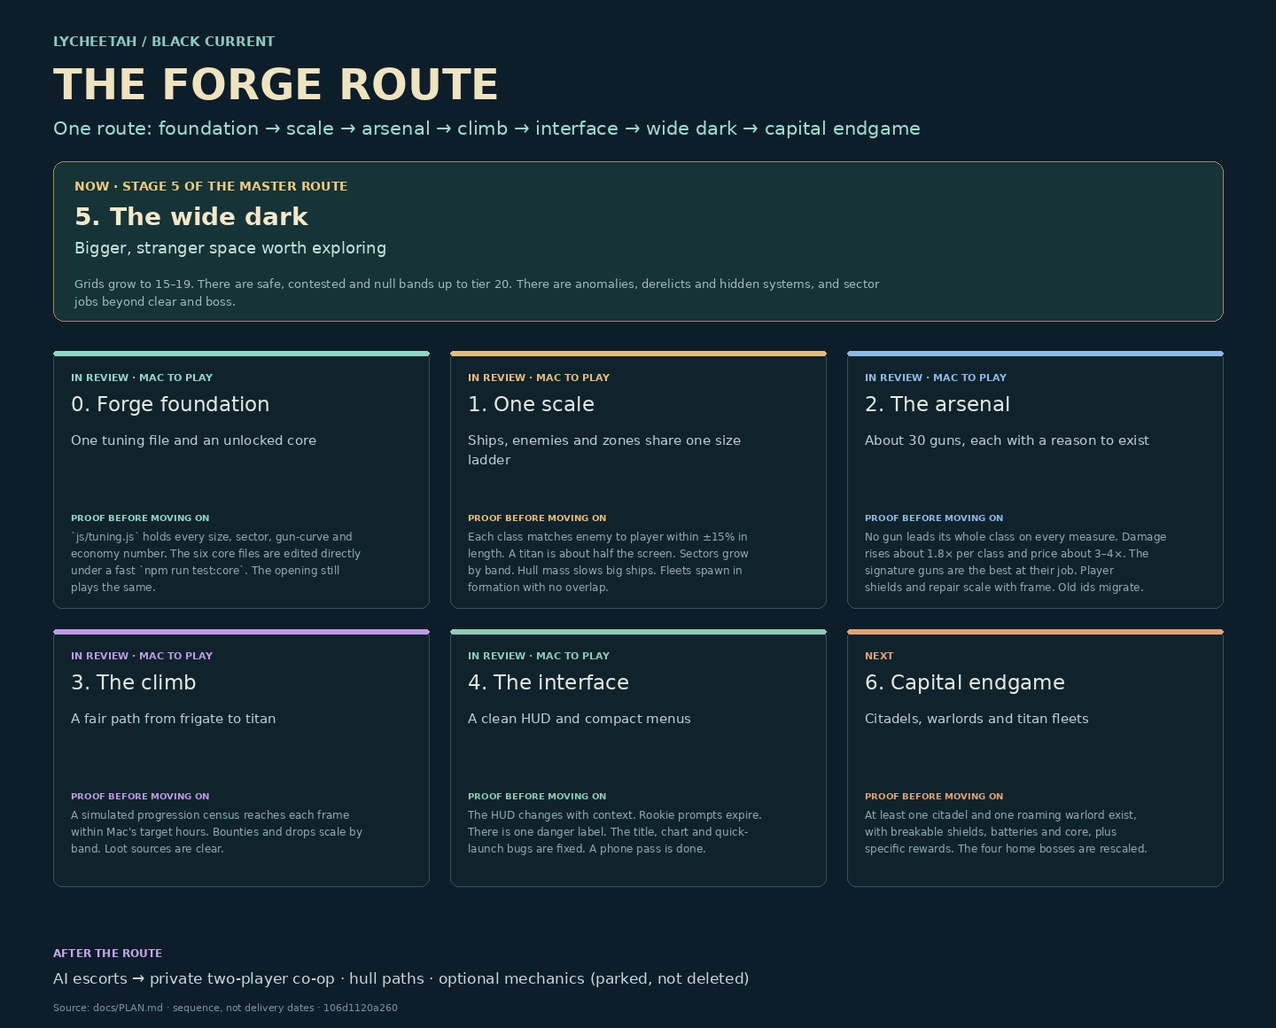
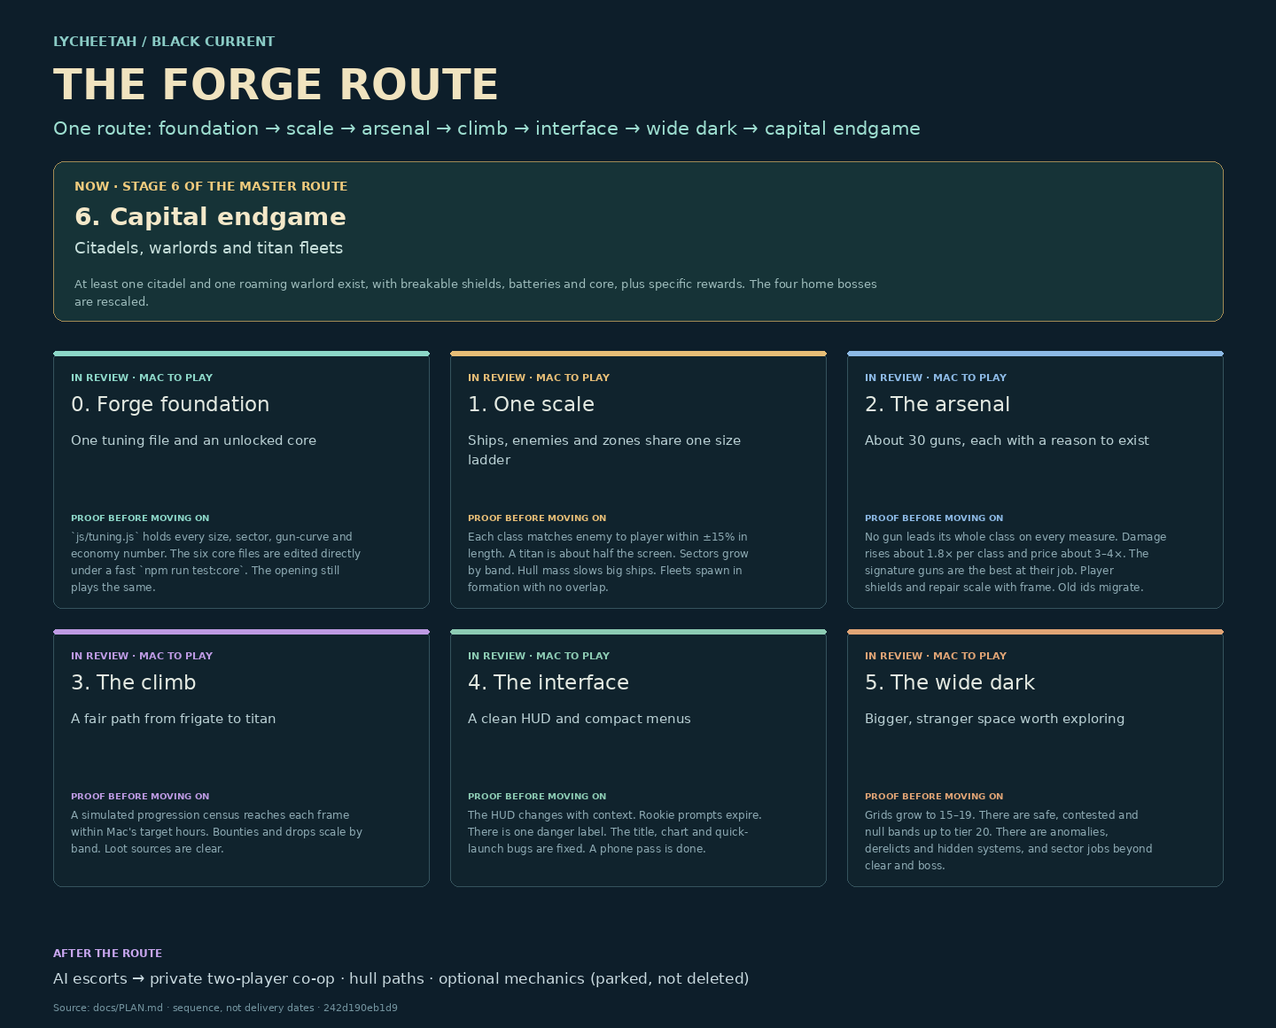
Stage 5: the wide dark, wider space with places worth the trip
Grids (tuning.MAP): home grows from 13x13 to 19x19, and systems from base
size +3 to base size +6, so 15-19 sectors wide. Inner coordinates and
seeds are unchanged; the outer rings are new space. Continue and portal
restores use the new limits.

Danger bands (tuning.BANDS): safe 1-3, contested 4-10, null 11-20. Far
regions add +1/+3/+6 to their sectors. Clamps are lifted to 20 in
combat-scaling, the threat rows extend to tier 20 (x1.18 HP/shield per
tier; tier 20 is 654k HP and 9,300 metal), and sector rooms grow to
12,000 px. Null-band fleets keep the 12-actor budget: one flagship of the
band, tier-18 escorts, and screens capped at tier 7, so they stay mixed
(titan, escorts, capital screens) instead of all titans.

New js/wide-dark.js:
- derelicts: seeded wrecks in contested and null space, guarded until
  cleared. Holding position for 3 s salvages a promised band-class roster
  gun (it skips the loot re-roll) plus metal;
- anomalies: rare in deep contested space, common in the null band; they
  give a relic fitting (otherwise boss-only) and chart a far system;
- GRAVEYARD: a sixth rule, assigned by hash after the four rolled rules,
  which are now pinned. No existing rule moves, even on regeneration.
  Graveyards are derelict-rich and have 40% fewer hunters.
Faction-kit block art draws the set pieces. New "Salvage a derelict" and
"Chart an anomaly" contracts.

New witness-wide-dark passes 10/10. combat-scaling, galaxy, one-scale and
[…]

diff --git a/js/wide-dark.js b/js/wide-dark.js
@@ -1,0 +1,106 @@
+/* THE WIDE DARK (master route Stage 5): places worth the trip.
+ * - DERELICTS: seeded wrecks in contested and null space (and most of a GRAVEYARD system). Clear the
+ *   guard, hold position beside the hulk and you salvage a roster gun of the sector's band class.
+ * - ANOMALIES: rare in deep contested space, common in the null band. Holding inside one yields a
+ *   RELIC fitting (otherwise only bosses drop relics) and charts a far system you have not visited.
+ * - GRAVEYARD: a sixth system rule, assigned by hash so existing galaxies keep every rolled rule.
+ * Sites are pure functions of system + coordinates; only "claimed" is saved. Art: faction-kit blocks. */
+(() => {
+  'use strict';
+  const TAU = Math.PI * 2, HOLD = 180;   // frames of holding position to salvage (3 s)
+  const ART = {
+    derelict: ['art/keyed/alien_blocks/chitin_carapace-v1.png', 'art/keyed/alien_blocks/rib_cage-v1.png', 'art/keyed/precursor_blocks/obsidian_keel-v1.png', 'art/keyed/armor/citadel_slab-v1.png'],
+    anomaly: ['art/keyed/precursor_blocks/solar_citadel-v1.png', 'art/keyed/alien_blocks/pulsing_heart-v1.png']
+  };
+  const images = new Map();
+  for (const path of [...ART.derelict, ...ART.anomaly]) { const img = new Image(); img.onload = () => images.set(path, img); img.src = window.__ART?.[path] || path; }
+  const hash = s => { let h = 2166136261; for (let i = 0; i < s.length; i++) h = Math.imul(h ^ s.charCodeAt(i), 16777619); return h >>> 0; };
+  const rng = seed => () => ((seed = Math.imul(seed ^ seed >>> 15, 2246822519) + 0x9e3779b9 >>> 0) / 4294967296);
+  let ready = false, hold = 0, holdKey = null;
+  const doc = () => { const d = saveState.doc; if (!d.wideDark || d.wideDark.v !== 1) d.wideDark = { v: 1, claimed: {}, derelicts: 0, anomalies: 0 }; return d.wideDark; };
+  // Graveyards are marked by hash after the seeded rules are rolled, so no existing rule moves.
+  let marked = null;
+  const candidate = sys => !!sys && !sys.home && !sys.hub && !sys.rule && (sys.hops || 0) >= 3 && hash('graveyard:' + sys.id) % 100 < 12;
+  function mark() { const D = window.galaxy?.data; if (!D || D === marked) return; for (const s of D.systems) if (candidate(s)) s.rule = 'graveyard'; marked = D; }
+  const isGraveyard = sys => { mark(); return sys?.rule === 'graveyard'; };
+  function site(ch) {
+    mark();
+    if (!ch || ch.isHaven || ch.isBossSector || ch.zoneLayer) return null;
+    const ring = Math.max(Math.abs(ch.gridX), Math.abs(ch.gridY)), d = ch.dangerLevel || 1;
+    if (!ch.sys && ring <= 3) return null;
+    const key = (ch.sysId || 'home') + ':' + ch.gridX + ',' + ch.gridY, r = rng(hash('site:' + key)), a = r(), b = r();
+    let kind = null;
+    if ((d >= 11 && a < 0.22) || (d >= 8 && a < 0.06)) kind = 'anomaly';
+    else if (d >= 4 && b < (isGraveyard(ch.sys) ? 0.65 : 0.2)) kind = 'derelict';
+    if (!kind) return null;
+    const R = ch.radius || 2600, ang = r() * TAU, dist = R * (0.35 + r() * 0.4), list = ART[kind];
+    return { kind, key, x: Math.cos(ang) * dist, y: Math.sin(ang) * dist, r: kind === 'anomaly' ? 260 : 220 + Math.min(10, d) * 18, art: list[Math.floor(r() * list.length)], spin: (r() - 0.5) * 0.00012, danger: d };
+  }
+  const current = () => site(worldMap.getCurrentChamber());
+  const claimed = s => !!doc().claimed[s.key];
+  function guarded(s) { return engine.enemies.some(e => e.hp > 0 && !e.training && Math.hypot(e.x - s.x, e.y - s.y) < 1800); }
+  function reward(s) {
+    const W = doc(); W.claimed[s.key] = Date.now();
+    if (s.kind === 'derelict') {
+      W.derelicts++;
+      const cls = combatScaling.gunClass({ tier: s.danger, archetype: 'stalker' });
+      const pool = Object.entries(modularShips.GEARS).filter(([, g]) => g.weapon && g.cls === cls && !g.retired && !g.salvageOnly);
+      const pick = pool[hash(s.key) % Math.max(1, pool.length)];
+      if (pick) progression.spawnSalvage(s.x, s.y, { promised: true, part: { type: 'cannon', radius: pick[1].radius, weapon: pick[1].weapon } });
+      hubs.metal += Math.round((tuning.ROWS[Math.min(20, s.danger)]?.bounty || 10) * 2);
+      if (window.contracts) contracts.bump('salvage');
+      garage.banner('DERELICT SALVAGED · ' + (pick ? WEAPON_TYPES[pick[1].weapon]?.title + ' recovered' : 'metal recovered'), 'good');
+    } else {
+      W.anomalies++;
+      progression.spawnSalvage(s.x, s.y, { part: loot.roll('relic') });
+      const v = galaxy.doc().visited, far = galaxy.data.systems.filter(o => !v.includes(o.id) && !o.home).sort((p, q) => (hash(s.key + p.id) % 997) - (hash(s.key + q.id) % 997))[0];
+      if (far) v.push(far.id);
+      if (window.contracts) contracts.bump('anomaly');
+      garage.banner('ANOMALY CHARTED · a relic surfaces' + (far ? ' · ' + far.name + ' revealed' : ''), 'good');
+    }
+    saveState.save();
+  }
+  function update() {
+    if (engine.paused || engine.player.dead) return;
+    const s = current(); if (!s || claimed(s)) { hold = 0; return; }
+    const P = engine.player, near = Math.hypot(P.x - s.x, P.y - s.y) < s.r + fleetFormation.radius(P) + 160;
+    if (holdKey !== s.key) { hold = 0; holdKey = s.key; }
+    hold = near && !guarded(s) ? hold + 1 : Math.max(0, hold - 2);
+    if (hold >= HOLD) { hold = 0; reward(s); }
+  }
+  function draw(ctx, camera) {
+    const s = current(); if (!s) return;
+    const img = images.get(s.art), t = performance.now(), done = claimed(s);
+    ctx.save(); ctx.translate(s.x - camera.x, s.y - camera.y);
+    if (s.kind === 'anomaly' && !done) { const g = ctx.createRadialGradient(0, 0, s.r * 0.2, 0, 0, s.r * 1.6); g.addColorStop(0, 'rgba(255,211,106,.35)'); g.addColorStop(1, 'rgba(188,19,254,0)'); ctx.fillStyle = g; ctx.beginPath(); ctx.arc(0, 0, s.r * 1.6, 0, TAU); ctx.fill(); }
+    ctx.rotate(t * s.spin); ctx.globalAlpha = done ? 0.35 : 1;
+    if (img) { const k = s.r * 2 / Math.max(img.naturalWidth, img.naturalHeight); ctx.drawImage(img, -img.naturalWidth * k / 2, -img.naturalHeight * k / 2, img.naturalWidth * k, img.naturalHeight * k); }
+    ctx.restore();
+    if (!done && hold > 0) { ctx.save(); ctx.translate(s.x - camera.x, s.y - camera.y); ctx.strokeStyle = s.kind === 'anomaly' ? '#ffd36a' : '#86ded0'; ctx.lineWidth = 10; ctx.beginPath(); ctx.arc(0, 0, s.r + 40, -Math.PI / 2, -Math.PI / 2 + TAU * hold / HOLD); ctx.stroke(); ctx.restore(); }
+  }
+  function label(ctx, camera) {
+    const s = current(); if (!s) return;
+    const P = engine.player, d = Math.round(Math.hypot(P.x - s.x, P.y - s.y)), done = claimed(s);
+    const text = (s.kind === 'anomaly' ? 'ANOMALY' : 'DERELICT') + (done ? ' · salvaged' : guarded(s) ? ' · guarded' : ' · hold position to salvage') + ' · ' + d;
+    ctx.save(); ctx.font = '600 ' + Math.round(14 / (engine.camera.zoom || 1)) + 'px system-ui'; ctx.textAlign = 'center';
+    ctx.fillStyle = s.kind === 'anomaly' ? '#ffd36a' : '#86ded0'; ctx.globalAlpha = done ? 0.5 : 0.9;
+    ctx.fillText(text, s.x - camera.x, s.y - camera.y - s.r - 30 / (engine.camera.zoom || 1)); ctx.restore();
+  }
+  function install() {
+    if (!window.sectorField?._installed || !window.fleetFormation?.ready || !window.combatScaling?.ready || !window.galaxy?.data) { setTimeout(install, 60); return; }
+    const membrane = worldMap.drawChamberMembrane.bind(worldMap);
+    worldMap.drawChamberMembrane = (ctx, camera) => { membrane(ctx, camera); try { draw(ctx, camera); } catch { } };
+    const parts = particleSystem.draw.bind(particleSystem);
+    particleSystem.draw = (ctx, camera) => { parts(ctx, camera); try { label(ctx, camera); } catch { } };
+    const tick = engine.update.bind(engine);
+    engine.update = (...a) => { const r = tick(...a); try { update(); } catch { } return r; };
+    mark();
+    // A graveyard is mostly wreckage: about 40% fewer ordinary hunters.
+    const load = engine.loadChamberEntities;
+    engine.loadChamberEntities = function (...a) { mark(); const r = load.apply(this, a); if (galaxy.rule() === 'graveyard') { const keep = this.enemies.filter(e => e.isBoss || e.name || e.training), rest = this.enemies.filter(e => !keep.includes(e)); this.enemies = [...keep, ...rest.slice(0, Math.ceil(rest.length * 0.6))]; } return r; };
+    galaxy.RULES.graveyard = { name: 'GRAVEYARD', tint: '#9fb7c9', line: 'A fleet died here. Derelicts everywhere; fewer hunters.' };
+    ready = true;
+  }
+  window.wideDark = { site, current, claimed, reward, isGraveyard, get hold() { return hold; }, get ready() { return ready; } };
+  window.addEventListener('load', () => setTimeout(install, 460));
+})();

diff --git a/js/tuning.js b/js/tuning.js
@@ -5,6 +5,8 @@
 (() => {
   'use strict';
   const CLASSES = ['frigate', 'cruiser', 'battleship', 'capital', 'supercapital', 'titan'];
+  // Null band rows 11–20 continue the ladder: hull/shield ×1.18, damage ×1.1, parts ×1.15, bounty ×1.2 per tier.
+  const extend = rows => { for (let t = 11; t <= 20; t++) { const p = rows[t - 1]; rows[t] = { hp: Math.round(p.hp * 1.18 / 100) * 100, shield: Math.round(p.shield * 1.18 / 100) * 100, damage: Math.round(p.damage * 1.1 * 10) / 10, parts: Math.round(p.parts * 1.15), bounty: Math.round(p.bounty * 1.2 / 10) * 10 }; } return rows; };
   const T = window.tuning = Object.freeze({
     CLASSES,
     // The flying frame class of a ship ('frigate' … 'titan'), or 'frigate' for legacy hulls.
@@ -30,6 +32,11 @@
       // Camera pulls back with the flying frame: target zoom = player's zoom dial × this.
       zoom: { frigate: 1, cruiser: 0.96, battleship: 0.91, capital: 0.86, supercapital: 0.82, titan: 0.78 }
     },
+    // Stage 5 · the wide dark. Grid half-widths: home 9 (19×19), systems base size + 6 (15–19 wide).
+    // Inner coordinates and seeds never move; the outer rings are new space.
+    MAP: { homeHalf: 9, systemExtra: 6 },
+    // Danger bands: safe 1–3, contested 4–10, null 11–20. Far regions push sectors into the null band.
+    BANDS: { safe: [1, 3], contested: [4, 10], null: [11, 20], maxTier: 20, regionBonus: [0, 0, 1, 3, 6] },
     // Hull mass: thrust (acceleration, so also top speed) and hull turn rate by frame.
     MASS: {
       frigate: { accel: 1, turn: 1 }, cruiser: { accel: 0.88, turn: 0.85 }, battleship: { accel: 0.76, turn: 0.68 },
@@ -38,7 +45,7 @@
     // Sector radius in px. `home` is the classic Asterion Forge chamber; `deep` is the
     // minimum for ordinary sectors outside the protected home rings (enemy-combat.js).
     // `byDanger` sizes ordinary sectors outside the home rings so capital fleets have room.
-    SECTOR: { home: 2600, deep: 3200, byDanger: [3200, 3200, 3200, 3600, 4200, 5000, 5800, 6600, 7400, 8200, 9000] },
+    SECTOR: { home: 2600, deep: 3200, byDanger: [3200, 3200, 3200, 3600, 4200, 5000, 5800, 6600, 7400, 8200, 9000, 9300, 9600, 9900, 10200, 10500, 10800, 11100, 11400, 11700, 12000] },
     // Gun damage-per-second budget by mount class: POINT, LIGHT, MEDIUM, HEAVY, SIEGE, CAPITAL (arsenal.js).
     GUN_CURVE: [50, 110, 200, 400, 700, 1300],
     // Stage 2 · the arsenal. Above Point class, five families × five classes are offered; every other
@@ -83,7 +90,7 @@
     // Extra hull HP granted by each frame (combat-scaling.js).
     FRAMES: { frigate: 0, cruiser: 300, battleship: 1200, capital: 4000, supercapital: 10000, titan: 22000 },
     // Fixed sector threat by tier 1–10: enemy HP/shield, damage multiplier, salvage parts and bounty metal.
-    ROWS: [null,
+    ROWS: extend([null,
       { hp: 90, shield: 0, damage: 1, parts: 1, bounty: 4 },
       { hp: 220, shield: 0, damage: 1, parts: 1, bounty: 10 },
       { hp: 650, shield: 100, damage: 1.4, parts: 2, bounty: 40 },
@@ -94,6 +101,6 @@
       { hp: 42000, shield: 7000, damage: 9, parts: 32, bounty: 640 },
       { hp: 78000, shield: 12000, damage: 11, parts: 50, bounty: 870 },
       { hp: 125000, shield: 22000, damage: 14, parts: 80, bounty: 1500 }
-    ]
+    ])
   });
 })();

diff --git a/js/combat-scaling.js b/js/combat-scaling.js
@@ -4,7 +4,7 @@
  'use strict';let ready=false;const seen=new WeakSet();
  // Threat rows and frame durability live in js/tuning.js (master route Stage 0).
  const ROWS=window.tuning.ROWS,FRAMES=window.tuning.FRAMES;
- const tier=e=>Math.max(1,Math.min(10,Math.floor(Number(e?.tier)||1)));
+ const tier=e=>Math.max(1,Math.min(window.tuning.BANDS.maxTier,Math.floor(Number(e?.tier)||1)));
  const home=()=>galaxy.currentId===(saveState.doc.civHome||'home');
  const protectedHere=()=>factionFleets.protectedSector()||frontierPve.isRange()||window.holoTest?.active||window.bossScenes?.rehearsing;
  function hullFor(e){if(e.archetype==='mote')return e.tier>=7?'cruiser':'frigate';return e.tier>=10?'titan':e.tier>=9?'supercapital':e.tier>=7?'capital':e.tier>=5?'battleship':e.tier>=3?'cruiser':'frigate';}
@@ -14,7 +14,8 @@
   const ring=Math.max(Math.abs(ch.gridX),Math.abs(ch.gridY));
   if(home()){if(ring>3)ch.dangerLevel=Math.min(5,ring-1);return;}
   if(!ch.sys||ch.sys.rule==='swarm')return;
-  ch.dangerLevel=Math.min(10,Math.max(ch.dangerLevel,ch.sys.danger+Math.max(0,ring-1)));
+  // Stage 5: far regions push their outer rings into the null band (tiers 11–20).
+  const B=window.tuning.BANDS;ch.dangerLevel=Math.min(B.maxTier,Math.max(ch.dangerLevel,ch.sys.danger+Math.max(0,ring-1)+(B.regionBonus[ch.sys.rid]||0)));
   ch.mission=systemMission(ch.sys,ch.gridX,ch.gridY,ch.dangerLevel);
   Object.assign(ch,{biome:ch.mission.biome,missionId:ch.mission.id,objective:ch.mission.objective,hazard:ch.mission.hazard,reward:ch.mission.reward,musicTheme:(BIOMES[ch.mission.biome]||{music:'HAVEN'}).music});
  }
@@ -38,7 +39,7 @@
    const r=compose.call(this,enemies,ch);if(factionFleets.protectedSector(ch)||(ch.dangerLevel||1)<5)return r;
    let i=0,major=!!ch._majorHullAssigned,band=ch.dangerLevel;
    for(const e of enemies){if(e.faction||e.training||e.isBoss||e.name||e.swarmBrood||e.jellyShoalKey||Number.isInteger(e.firstExpeditionGuard))continue;
-    e.tier=!major?band:i<=2?Math.max(2,band-2):Math.max(2,band-4);if(!major){major=true;if(e.archetype==='mote'){e.archetype='stalker';e.nodes=[];e.setupNodes();}}i++;
+    e.tier=!major?band:i<=2?Math.max(2,band-2):Math.max(2,Math.min(band-4,7));/* Stage 5: null-band screens stay cruiser-to-capital */if(!major){major=true;if(e.archetype==='mote'){e.archetype='stalker';e.nodes=[];e.setupNodes();}}i++;
    }ch._majorHullAssigned=major;return r;
   };
   const update=EnemyOrganism.prototype.update;EnemyOrganism.prototype.update=function(player,shots,enemies,...args){

diff --git a/js/map.js b/js/map.js
@@ -116,7 +116,7 @@ class WorldMatrixMap {
     this.currentGridX = 0;
     this.currentGridY = 0;
     this.system = null;     // F3b: null = home (Asterion Forge); else a galaxy system
-    this.size = 6;          // grid half-width: 3 → 7×7, 2 → 5×5, 1 → 3×3
+    this.size = window.tuning.MAP.homeHalf;   // grid half-width (js/tuning.js MAP): home 19×19
     this.initMatrix();
   }
 
@@ -133,7 +133,7 @@ class WorldMatrixMap {
   /** F3b: swap the whole grid for another system's. Home is `null`. */
   enterSystem(sys) {
     this.system = sys || null;
-    this.size = sys ? sys.size + 3 : 6;
+    this.size = sys ? sys.size + window.tuning.MAP.systemExtra : window.tuning.MAP.homeHalf;
     this.initMatrix();
     this.currentGridX = Math.max(-this.size, Math.min(this.size, this.currentGridX));
     this.currentGridY = Math.max(-this.size, Math.min(this.size, this.currentGridY));

diff --git a/js/civilisations.js b/js/civilisations.js
@@ -121,7 +121,7 @@
     if (typeof garage === 'undefined' || !garage.launch || !window.galaxy || !galaxy.data || typeof engine === 'undefined' || !engine.player || !window.canon) { setTimeout(install, 60); return; }
     const launch = garage.launch;
     garage.launch = function (continuing) {
-      const w=saveState.doc.where,sys=w&&galaxy.data.byId[w.sys],limit=sys?(sys.id==='home'?6:sys.size+3):0;
+      const w=saveState.doc.where,sys=w&&galaxy.data.byId[w.sys],limit=sys?(sys.id==='home'?tuning.MAP.homeHalf:sys.size+tuning.MAP.systemExtra):0;
       const resumeHere=continuing&&sys&&Number.isInteger(w.gx)&&Number.isInteger(w.gy)&&Math.abs(w.gx)<=limit&&Math.abs(w.gy)<=limit&&Number.isFinite(w.x)&&Number.isFinite(w.y);
       const r = launch.apply(this, arguments);
       // A confirmed new campaign durably writes a fresh document and reloads.

diff --git a/js/loot.js b/js/loot.js
@@ -202,7 +202,7 @@
     engine.loseNode = (ship, node) => { knocking++; try { return lose(ship, node); } finally { knocking--; } };
     const salvage = progression.spawnSalvage.bind(progression);
     progression.spawnSalvage = (x, y, opts = {}) => {
-      if (opts.part && !opts.part.quirk && !opts.core) {
+      if (opts.part && !opts.part.quirk && !opts.core && !opts.promised) {
         const danger = typeof worldMap !== 'undefined' ? worldMap.getCurrentChamber()?.dangerLevel || 0 : 0;
         if (knocking && Math.random() >= (danger <= 1 ? 0.18 : LOOSE_PART_CHANCE)) return null;
         if (killing && !knocking && !bossKill && Math.random() >= 0.15) return null;

diff --git a/js/contracts.js b/js/contracts.js
@@ -16,6 +16,9 @@
     lunge:   { n: [3, 5],       w: 1.3, t: n => `Kill ${n} chargers mid-lunge` },
     painter: { n: [3, 5],       w: 1.3, t: n => `Kill ${n} snipers while they paint you` },
     strip:   { n: [12, 20],     w: 1.1, t: n => `Shoot ${n} parts off enemies`, parts: 1 },
+    // Stage 5 · the wide dark (js/wide-dark.js bumps these).
+    salvage: { n: [1, 2],       w: 1.5, t: n => n === 1 ? 'Salvage a derelict' : `Salvage ${n} derelicts`, parts: 2 },
+    anomaly: { n: [1],          w: 1.8, t: () => 'Chart an anomaly', parts: 2 },
   };
 
   const ct = window.contracts = {

diff --git a/js/galaxy.js b/js/galaxy.js
@@ -117,7 +117,9 @@
     }
 
     /* weird systems: never next door to home, never a hub (an anchorage is calm water) */
-    const ruleIds = Object.keys(RULES);
+    // The rolled rules are fixed: later rules (GRAVEYARD, js/wide-dark.js) are assigned by hash so
+    // adding one can never reshuffle an existing galaxy.
+    const ruleIds = ['blacksun', 'riptide', 'foundry', 'swarm'];
     for (const s of outer) if (!s.hub && s.hops >= 2 && r() < CFG.ruleChance) s.rule = ruleIds[Math.floor(r() * ruleIds.length)];
     for (const s of outer) if (s.rule === 'riptide') s.drift = r() * TAU;
 

diff --git a/index.html b/index.html
@@ -572,5 +572,6 @@
   <script src="js/combat-scaling.js?v=20261028s68"></script>
   <script src="js/fleet-formation.js?v=20261028s68"></script>
   <script src="js/flight-hud.js?v=20261028s68"></script>
+  <script src="js/wide-dark.js?v=20261028s68"></script>
 </body>
 </html>

diff --git a/docs/PLAN.md b/docs/PLAN.md
@@ -47,17 +47,6 @@ Scale comes first because every later number (range, damage, price, sector conte
 4. **A titan fills about 40% of the screen at the default zoom.** The camera pulls back with hull class, and sectors grow with danger band (Mac's framing verdict decides the final ladder in `js/tuning.js`).
 5. **Use `art/` first** (see Art library) before commissioning anything new. Antigravity keeps the module/cosmetic art lane.
 
-### Stage 5 · The wide dark
-- **Bigger grids.** Grids grow from 9–13 to 15–19 wide (`galaxy.js`, `map.js`, `travel.js`). Saved coordinates and inner-sector seeds are preserved.
-- **Danger bands.**
-  - Safe: 1–3.
-  - Contested: 4–10.
-  - Null: 11–20, the first slice of Mac's 9–99 vision.
-  - The clamps in `combat-scaling.js` and `map.js` are lifted together.
-- **Places.** Anomalies, derelicts and hidden systems, with rewards only found there. More system rules beyond the current four. Every risk keeps a visible route home.
-- **Sector jobs.** Escort, salvage run, station defence, hunt and courier, alongside clear and boss (`contracts.js`, `campaign.js`, `contacts.js`).
-- **Art.** `structures/refit-station`, `world/solar-ring`, `alien_blocks/` and `precursor_blocks/` as set pieces, plus the `world-kit.json` plates.
-
 ### Stage 6 · Capital endgame
 - **Citadel fortress.** Separate shield, battery, hangar and core objectives. Art: `armor/citadel_slab`, `precursor_blocks/solar_citadel`, `precursor_blocks/obsidian_keel`.
 - **Warlords and titan fleets.** Six roaming warlords with canon names (`docs/canon/`), and titan fleets in the null band.
@@ -66,6 +55,7 @@ Scale comes first because every later number (range, damage, price, sector conte
 
 ### After the route (parked, not deleted)
 - **AI escorts, then private co-op.** Useful AI escort roles first, then the private two-player arena (proposal below).
+- **More sector jobs.** Escort, station defence and courier jobs (Stage 5 shipped salvage and anomaly jobs).
 - **Hull specialisation paths.** Five or eight per frame; decide before building.
 - **Optional mechanics.** Damage-type multipliers, adjacency bonuses, a volatile hold and a fitting-reduction preview. Never add these by implication.
 - **Mining and industry.** Only if players ask.
@@ -127,8 +117,8 @@ snapshot of this table, not an automatic activity feed.
 <!-- live-tasks:start -->
 Project: Black Current
 Published: rc.13 · Threat ladder · live on Pages
-Candidate: none · branch claude/keen-feynman-p4adh0 carries Stages 0–4 (not published)
-Focus: Stage 5 · The wide dark is running. Stages 0–4 await Mac's play; rc.13 phone verdict still open.
+Candidate: none · branch claude/keen-feynman-p4adh0 carries Stages 0–5 (not published)
+Focus: Stage 6 · Capital endgame is running. Stages 0–5 await Mac's play; rc.13 phone verdict still open.
 Updated: 2026-10-28T21:30:00+00:00
 
 | ID | Status | Task | Evidence / next step |
@@ -138,8 +128,8 @@ Updated: 2026-10-28T21:30:00+00:00
 | stage-2-arsenal | review | About 30 curated guns; curves; shields; save migration | `witness-arsenal` 14/14; census in `docs/research/ARSENAL_CENSUS_2026-10-28.csv`. One gun per family per class Light→Capital; lanes (beam ×1.5 vs shields, rail ×1.3 vs hull) measured on real hits; DPS ×1.75–2.0 and price ×3.4–3.8 per class; titan shield 6,300 (was 90). Owned retired guns still fly. Mac: try beams vs shielded fleets. PHONE: pending. |
 | stage-3-climb | review | Fair frigate → titan economy and useful loot | `witness-climb` 7/7. Measured kill times + modelled pace (2.5× kill time + 25 s travel, `tuning.CLIMB`): frigate → titan 17.6 h in steps 1.1/2.0/3.5/5.0/6.0 h (was 59 h with a 16 h cruiser→battleship wall). Frames/training re-priced, mid-tier bounties raised. Deep wrecks now drop the band's own roster guns (capital at tier 8, was Light); ~5 loose parts and ~7–10 cores per 100 kills. Biomass gates unmodelled. Mac: set the target hours by playing. |
 | stage-4-interface | review | Contextual HUD, compact menus, title fixes, phone pass | `witness-interface` 10/10 with desktop/phone captures. One danger number (strip: sector danger, system in brackets); home-only expedition prompt hides elsewhere; `body.bc-combat` folds contract rows and dims view controls; chart blocked over title; solid one-row launch footer; `?forge-test` quick launch works (grant after launch); phone dock prompt no longer covers doctrine buttons. Existing: phone-layout Ability reachability fails as on rc.13. PHONE: pending on Mac's device. |
-| stage-5-wide-dark | running | Bigger grids, danger bands to 20, anomalies, sector jobs | Each band has distinct encounters and rewards; saves keep coordinates. |
-| stage-6-capital | queued | Citadels, warlords, titan fleets, rescaled bosses | One citadel and one warlord playable with breakable objectives and rewards. |
+| stage-5-wide-dark | review | Bigger grids, danger bands to 20, anomalies, sector jobs | `witness-wide-dark` 10/10. Home 19×19, systems 15–19 wide (inner coordinates/seeds unchanged). Bands: safe 1–3, contested 4–10, null 11–20 (far regions +3/+6); threat rows extended to 20 (tier 20: 654k HP, 9,300 metal); null fleets = titan flagship, tier-18 escorts, capital screens; rooms to 12,000 px. Derelicts (guarded; salvage = band-class roster gun + metal), anomalies (relic fitting + a far system charted), GRAVEYARD rule by hash (no rolled rule moved), salvage/anomaly contracts. Escort, station-defence and courier jobs not built (see After the route). PHONE: pending. |
+| stage-6-capital | running | Citadels, warlords, titan fleets, rescaled bosses | One citadel and one warlord playable with breakable objectives and rewards. |
 | phone-verdict | review | Judge rc.13 on actual hardware | Rc.13 live: source ef975d7, Pages 939cf45, cache 20261028s68. Phone FPS, comfort and coordinated fights unverified. |
 <!-- live-tasks:end -->
 
